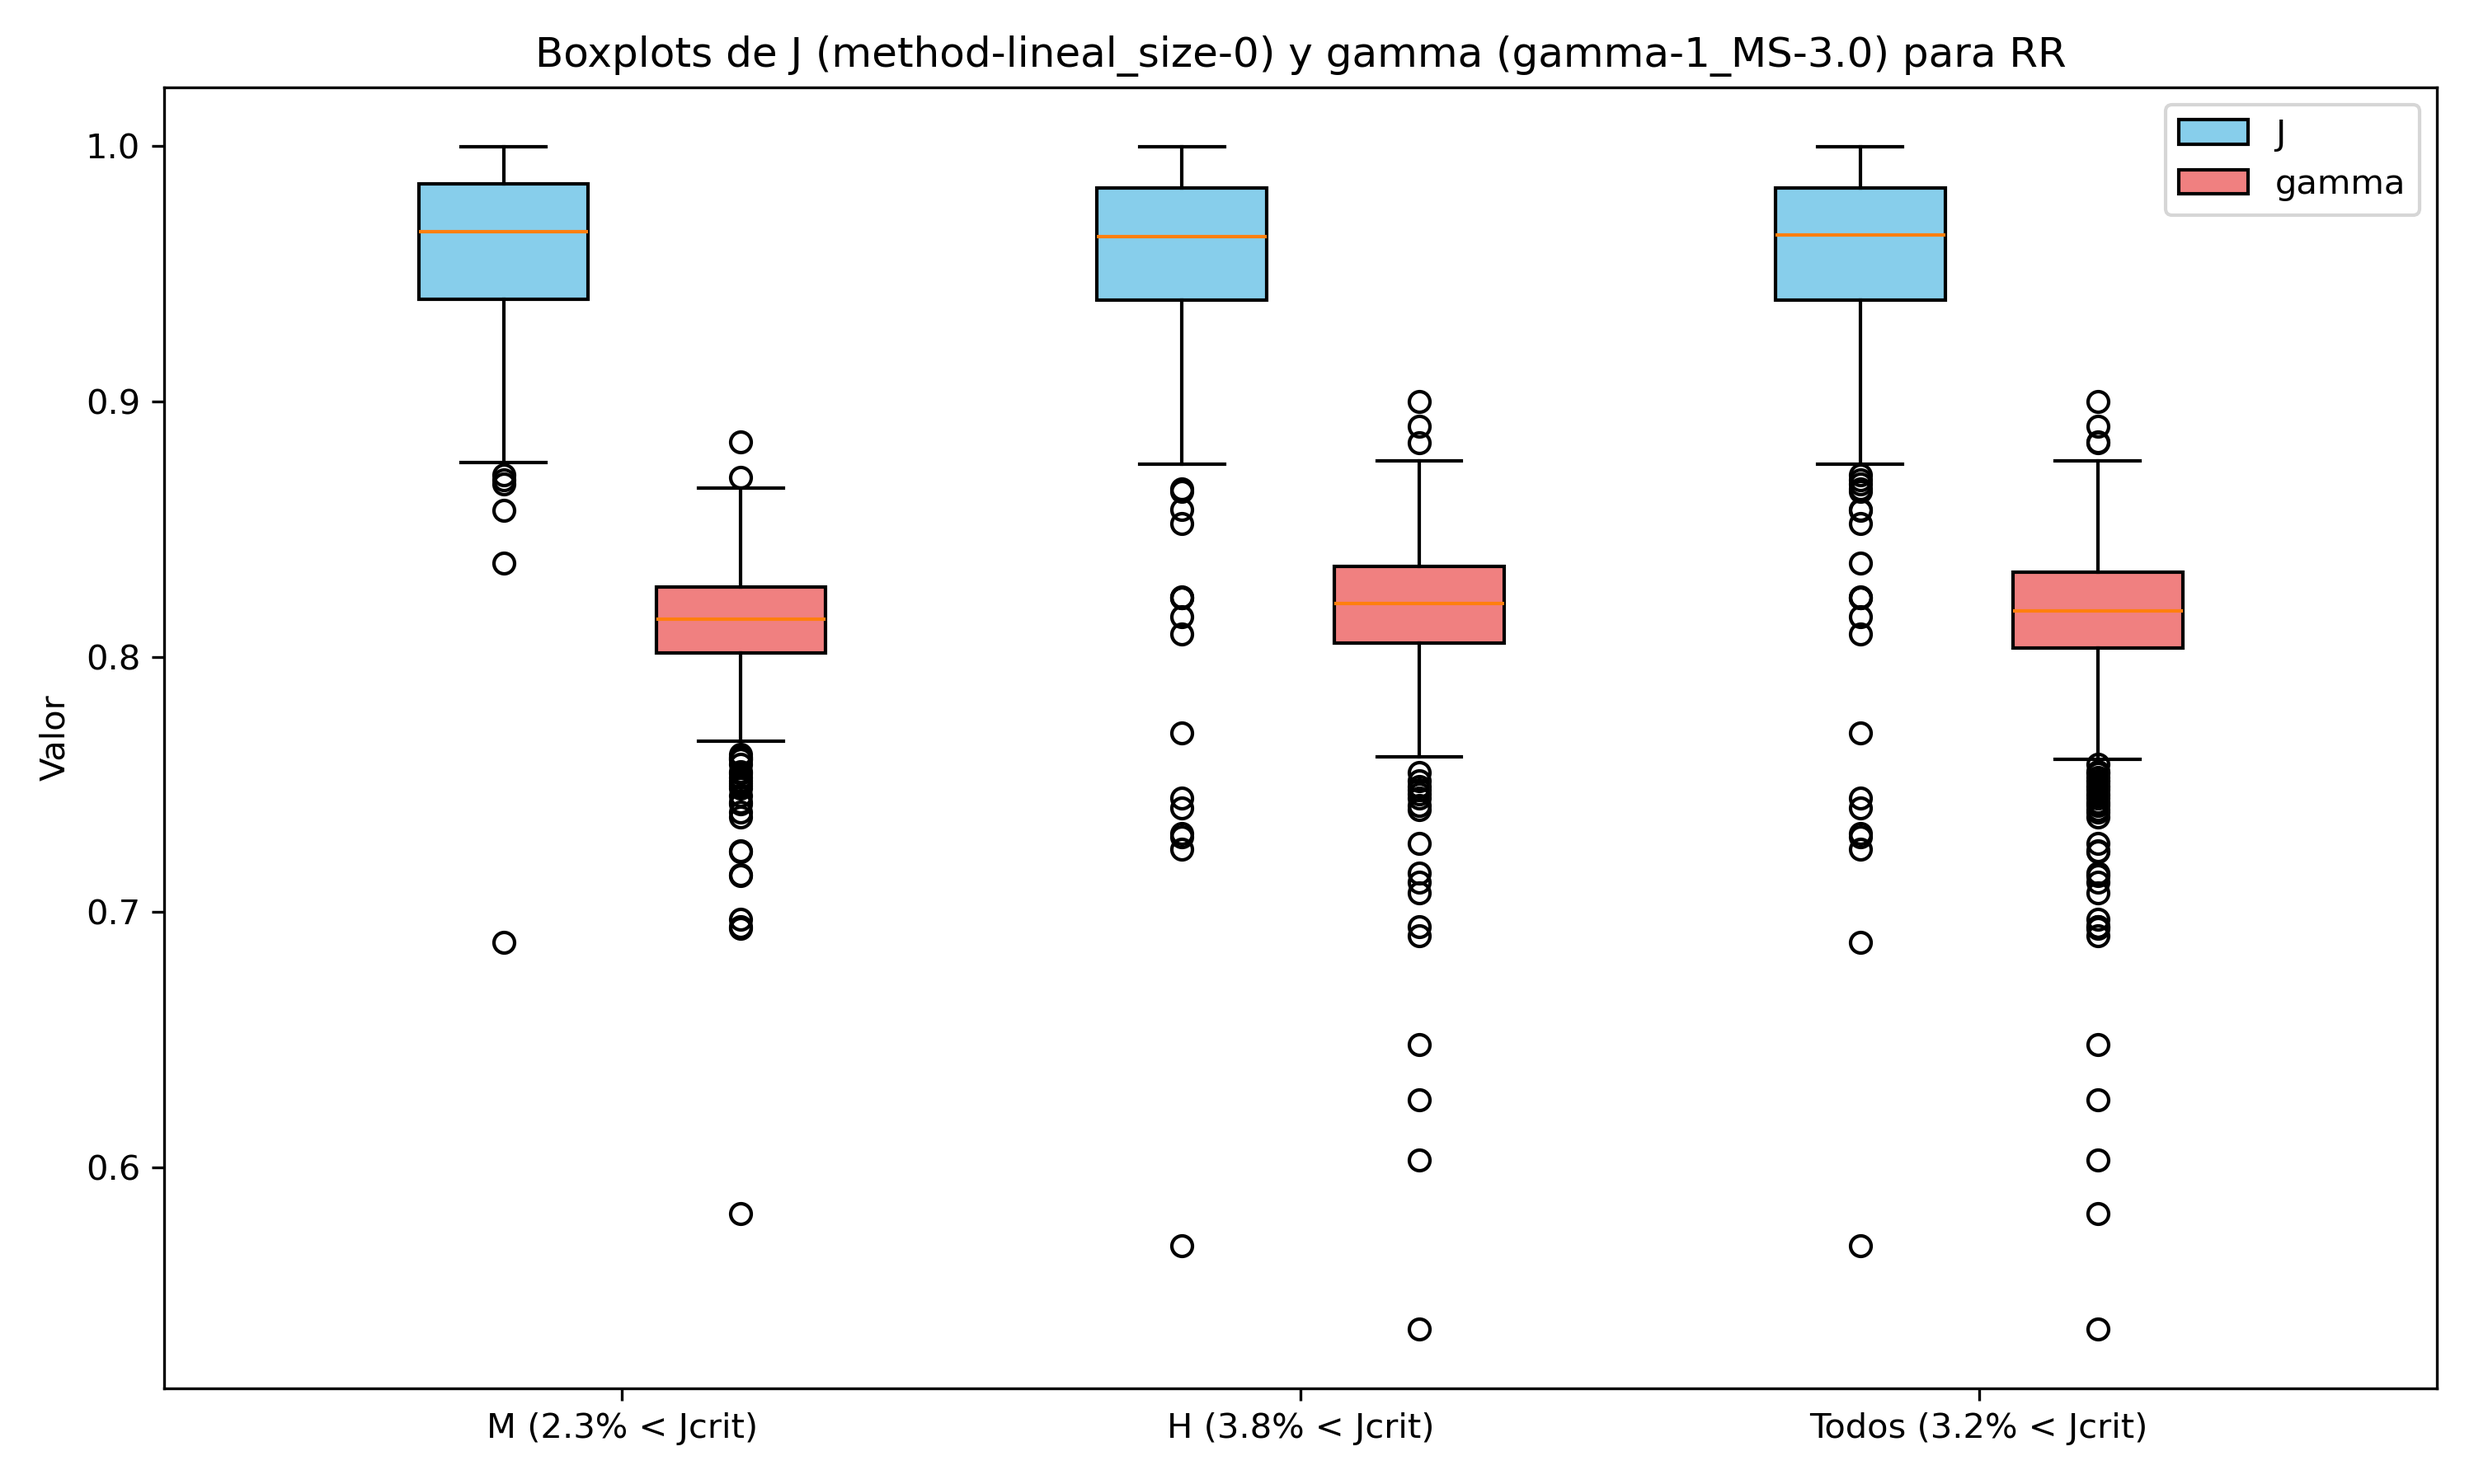
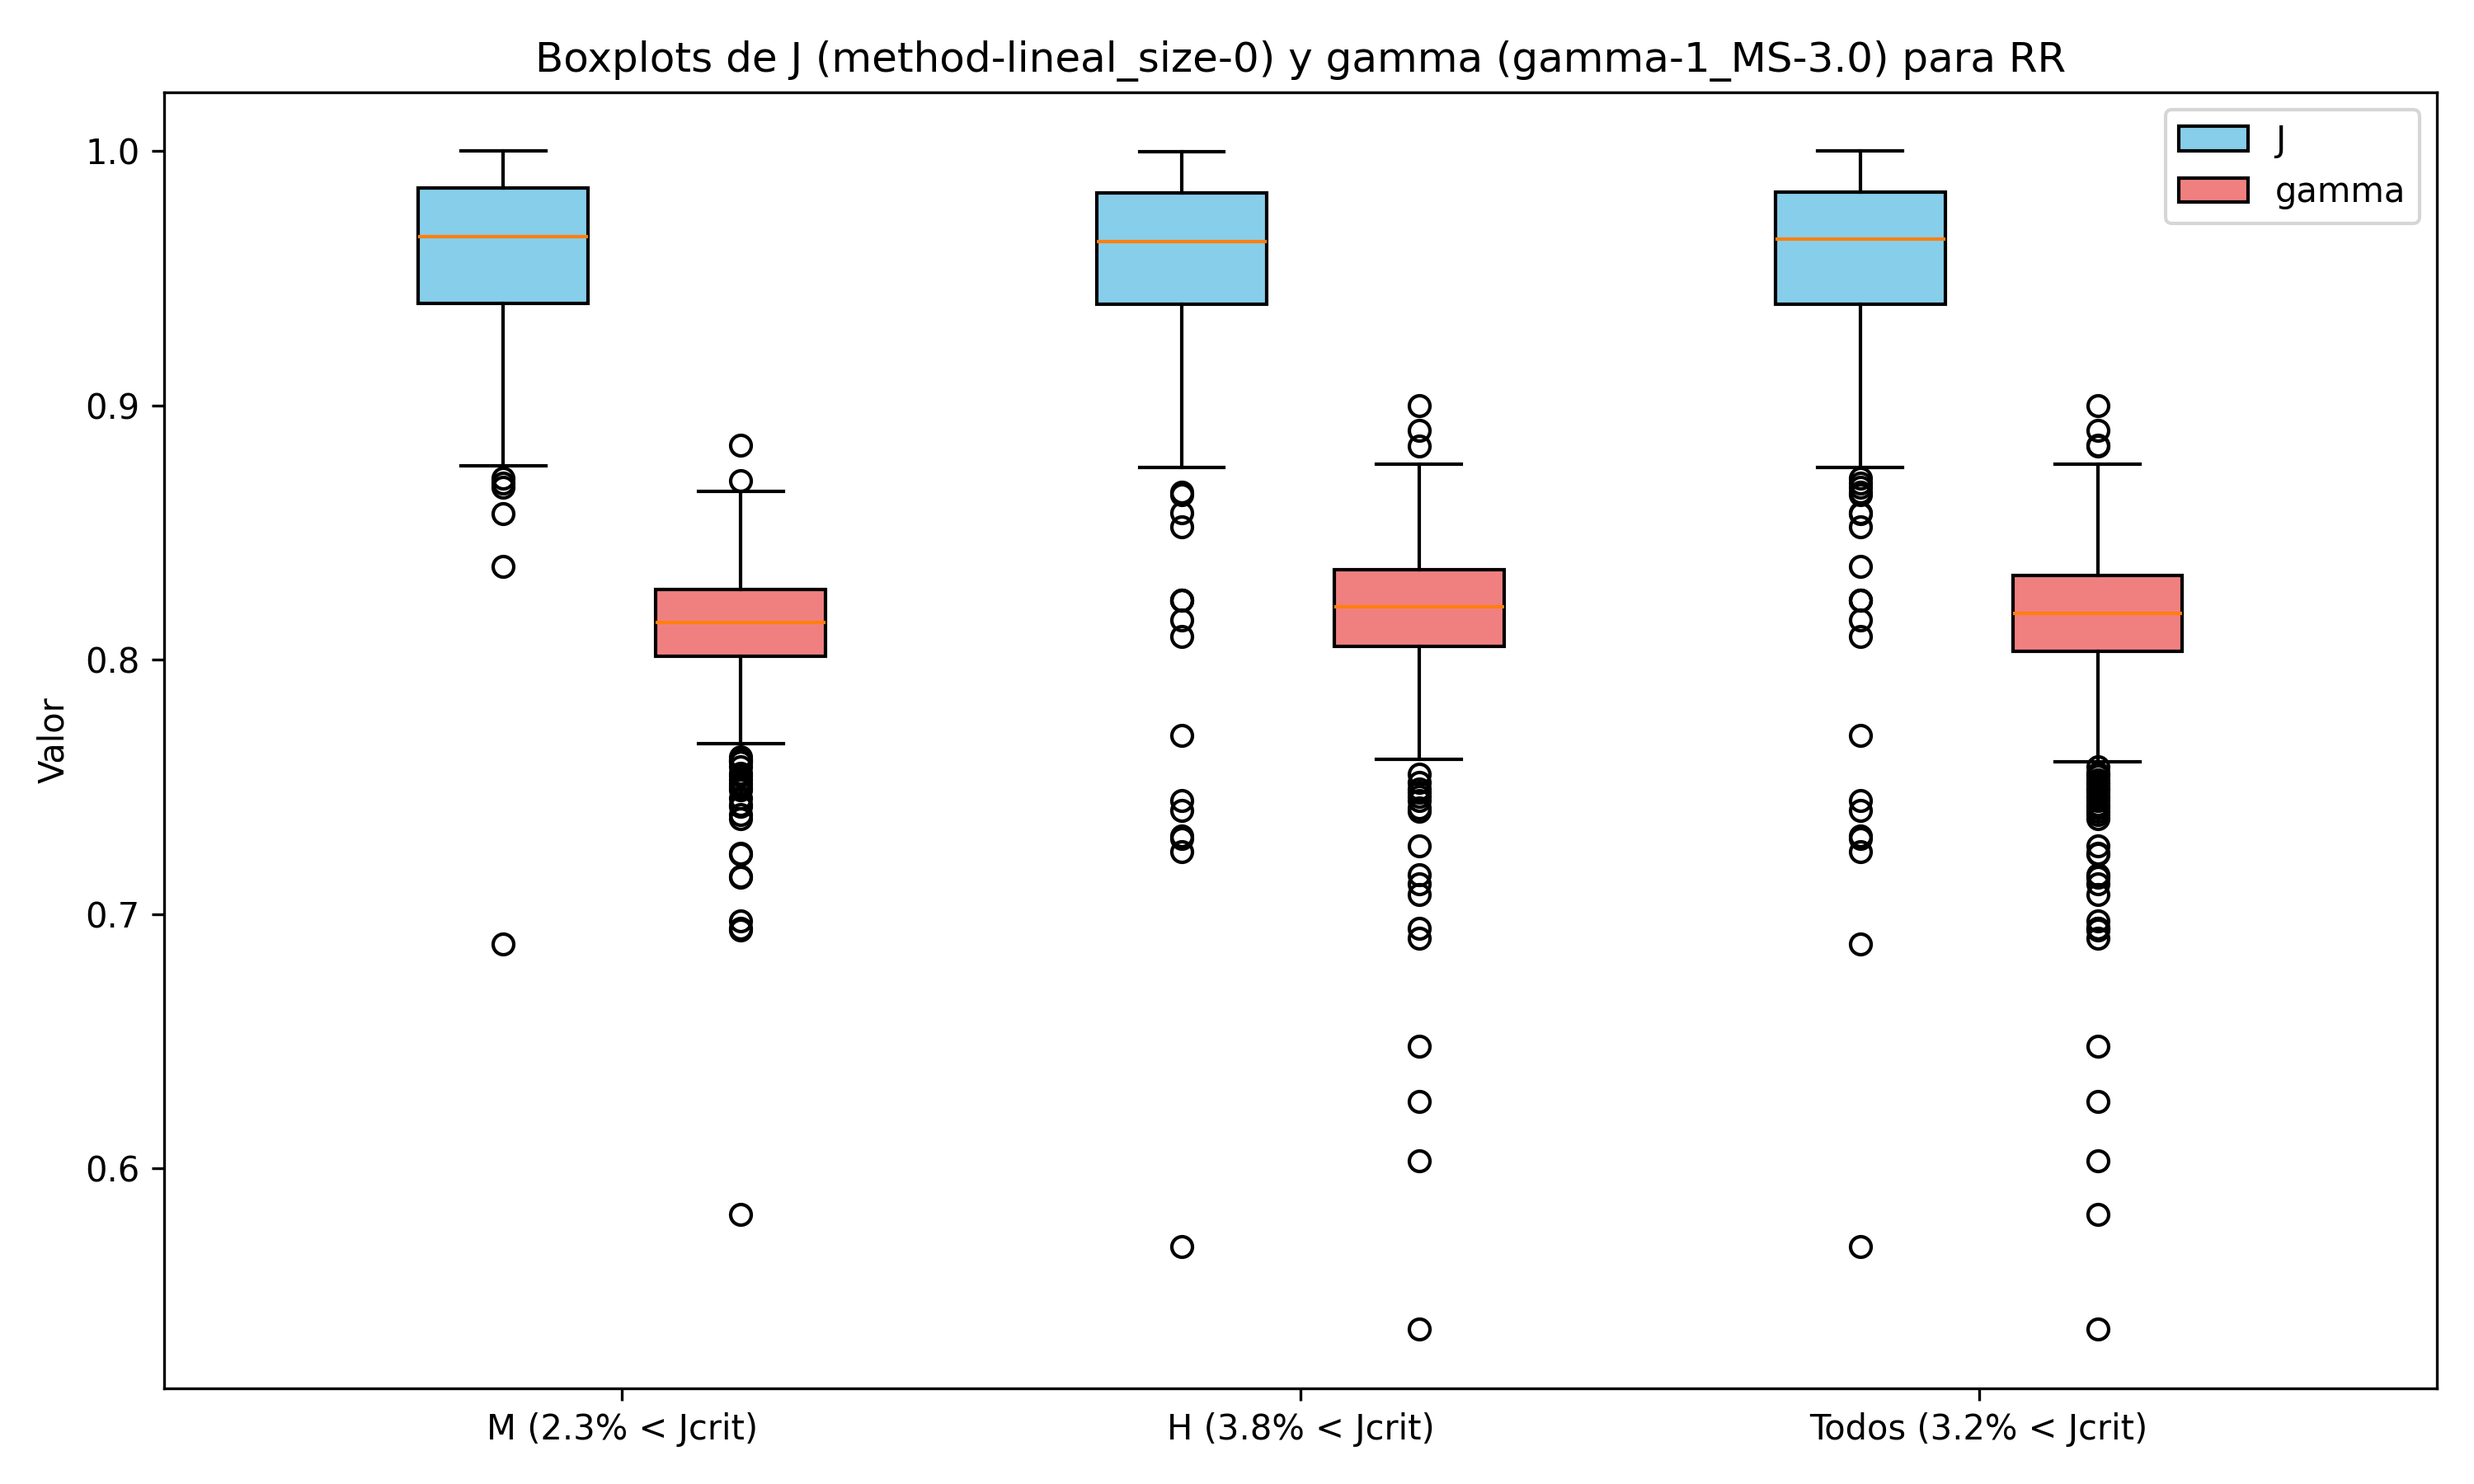
boxplot_por_edad

diff --git a/EDUARDO JOTA GAMA/Cardio_Claudia/prueba_multiprocess.py b/EDUARDO JOTA GAMA/Cardio_Claudia/prueba_multiprocess.py
@@ -124,7 +124,7 @@ PACIENTES         = [f'{i:04d}' for i in range(1, 1122)]  # 0001–1121
 
 # Parámetros
 METHOD_INTERP = 'lineal'   # 'lineal' | 'herm'
-SIZE_INTERP   = 0          # 0 ⇒ sin interpolación
+SIZE_INTERP   = 2          # 0 ⇒ sin interpolación
 MS_PARAM      = 3.0
 INDICE_GAMMA  = 1
 OUTPUT_DIR    = 'resultados'
